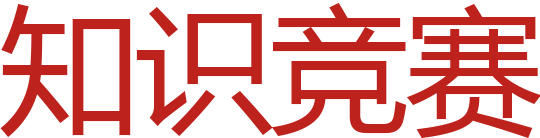
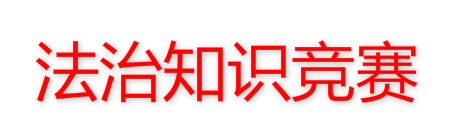
题库功能完工

diff --git a/protected/controllers/CompetitionController.php b/protected/controllers/CompetitionController.php
@@ -49,7 +49,7 @@ class CompetitionController extends Q
             $ids = zmf::val('ids');
             $ids = explode(',', $ids);
             $_answers = [];
-            if (count($ids) != 15) {
+            if (count($ids) != 10) {
                 $this->message(0, '客官,您这是什么操作!');
             }
             foreach ($ids as $k => $id) {
@@ -100,29 +100,30 @@ class CompetitionController extends Q
             //DX
             $_questions = Questions::model()->findAll([
                 'condition' => 'type =1',
-                'limit' => 5,
+                'limit' => 4,
                 'order' => 'rand()'
             ]);
             //DXS
             $questions = array_merge($questions, $_questions);
             $_questions = Questions::model()->findAll([
                 'condition' => 'type =2',
-                'limit' => 5,
+                'limit' => 2,
                 'order' => 'rand()'
             ]);
             //pD
             $questions = array_merge($questions, $_questions);
             $_questions = Questions::model()->findAll([
                 'condition' => 'type =3',
-                'limit' => 5,
+                'limit' => 4,
                 'order' => 'rand()'
             ]);
             $questions = array_merge($questions, $_questions);
         }
 
         $ids = [];
-        foreach ($questions as $question) {
+        foreach ($questions as $k=>$question) {
             $content = $question->content;
+            $question->title = ($k+1) . '.' . $question->title;
             $answers = explode("</p>", $content);
             foreach ($answers as $k => $answer) {
                 $answer = strip_tags($answer);

diff --git a/themes/mobile/views/competition/index.php b/themes/mobile/views/competition/index.php
@@ -108,12 +108,13 @@
 
 <div class="homepage">
     <div style="padding: 20px;text-align: center;font-weight:bold;margin-top:20px">
-        <p class="fs14">2019年“弘扬社会主义法治精神•献礼新中国成立70周年”法治知识竞赛</p>
+        <p class="fs14">2019年“弘扬社会主义法治精神•献礼新中国成立70周年”</p>
     </div>
 
-    <img src='<?php echo zmf::config('baseurl') . 'jsCssSrc/images/title.png' ?>' class="img1" alt="知识竞赛">
+    <img src='<?php echo zmf::config('baseurl') . 'jsCssSrc/images/title.png' ?>' class="img1" alt="法治知识竞赛">
     <div class="organizer fs14">
-        <span>主办单位：中共重庆市綦江区委政法委员会、中共重庆市綦江区委全面依法治区委员会办公室</span><br>
+        <span>主办单位：中共重庆市綦江区委政法委员会</span><br>
+        <span>&nbsp;&nbsp;&nbsp;&nbsp;中共重庆市綦江区委全面依法治区委员会办公室</span><br>
         <span>承办单位：重庆市綦江区法学会</span><br>
 
     </div>

diff --git a/themes/mobile/views/competition/Mselect.php b/themes/mobile/views/competition/Mselect.php
@@ -1,6 +1,6 @@
 <style>
       .answer_title {
-          font-size: 15px;
+          font-size: 18px;
           white-space: normal;
       }
     .option{
@@ -9,7 +9,7 @@
     }
 
 </style>
-<p class="answer_title"><?php echo $question['title']; ?></p>
+<p class="answer_title"><em>多选：</em><?php echo $question['title']; ?></p>
 <div class="weui-cells weui-cells_checkbox margin0" id="<?php echo $question['id'];?>[]">
     <?php foreach ($question['content'] as $k => $answer) { ?>
     <label class="weui-cell weui-check__label option" for="<?php echo $question['id'] . '_' . $k ;?>">

diff --git a/themes/mobile/views/competition/select.php b/themes/mobile/views/competition/select.php
@@ -1,6 +1,6 @@
 <style>
     .answer_title {
-        font-size: 15px;
+        font-size: 18px;
         white-space: normal;
     }
     .option{
@@ -8,7 +8,7 @@
         white-space: normal;
     }
 </style>
-<p class="answer_title"><?php echo $question['title']; ?></p>
+<p class="answer_title"><em>单选：</em><?php echo $question['title']; ?></p>
 <div class="weui-cells weui-cells_radio margin0" id="<?php echo $question['id'];?>">
     <?php foreach ($question['content'] as $k=>$answer){?>
     <label class="weui-cell weui-check__label" for="<?php echo $question['id'] .'_'. $k;?>">

diff --git a/themes/mobile/views/competition/judge.php b/themes/mobile/views/competition/judge.php
@@ -9,7 +9,7 @@
     }
 
 </style>
-<p class="answer_title"><?php echo $question['title']; ?></p>
+<p class="answer_title"><em>判断：</em><?php echo $question['title']; ?></p>
 <div class="weui-cells weui-cells_radio margin0 option" id="<?php echo $question['id'];?>">
     <label class="weui-cell weui-check__label" for="<?php echo $question['id'];?>_1">
         <div class="weui-cell__bd">

diff --git a/themes/mobile/views/competition/answer.php b/themes/mobile/views/competition/answer.php
@@ -123,6 +123,11 @@
     .margin0 {
         margin-top: 0;
     }
+
+    .answer_title em{
+        color: red;
+    }
+
 </style>
 
 <div class="answer">
